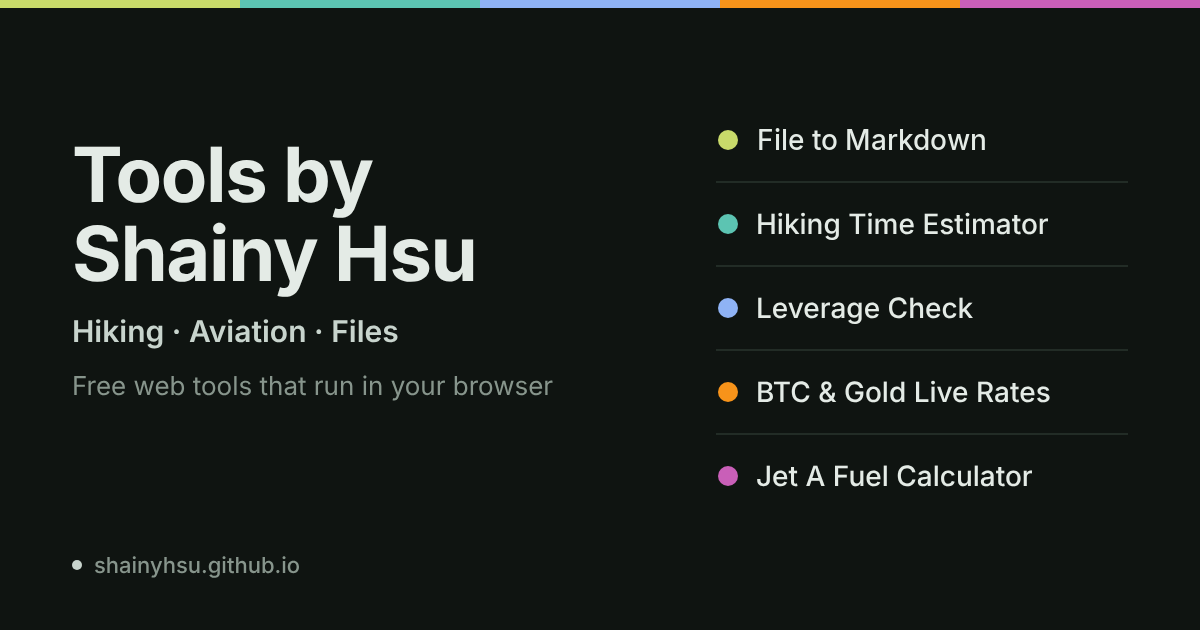
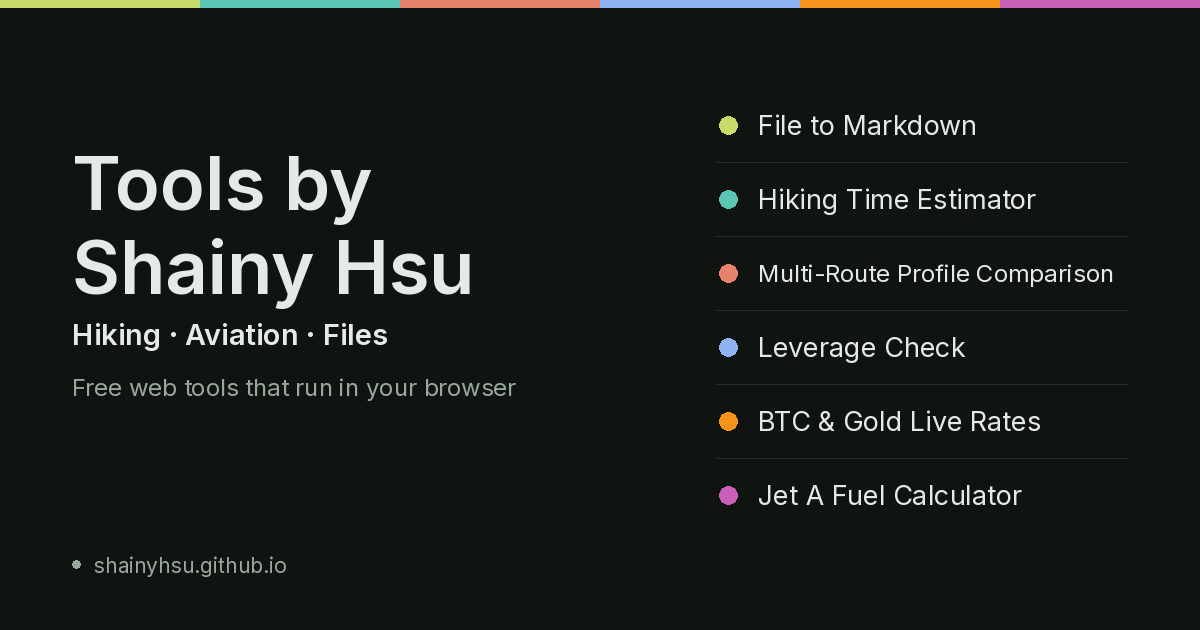
Home: add Multi-Route Profile Comparison to list, sitemap and OG image

diff --git a/index.html b/index.html
@@ -2,25 +2,26 @@
 <html lang="en"><head><meta charset="utf-8"><script>(function(){var t="dark";try{t=localStorage.getItem("theme")||"dark"}catch(e){}document.documentElement.setAttribute("data-theme",t==="light"?"light":"dark")})()</script>
 <meta name="viewport" content="width=device-width,initial-scale=1">
 <title>Tools by Shainy Hsu | Hiking, Aviation and Files</title>
-<meta name="description" content="Free web tools by Shainy Hsu: Hiking Time Estimator, Leverage Check for trip leaders, Jet A Fuel Calculator for the G550, BTC and gold live rates, and File to Markdown.">
+<meta name="description" content="Free web tools by Shainy Hsu: Hiking Time Estimator, Multi-Route Profile Comparison, Leverage Check for trip leaders, Jet A Fuel Calculator for the G550, BTC and gold live rates, and File to Markdown.">
 <link rel="canonical" href="https://shainyhsu.github.io/">
 <meta property="og:type" content="website">
 <meta property="og:title" content="Tools by Shainy Hsu | Hiking, Aviation and Files">
-<meta property="og:description" content="Free web tools by Shainy Hsu: Hiking Time Estimator, Leverage Check for trip leaders, Jet A Fuel Calculator for the G550, BTC and gold live rates, and File to Markdown.">
+<meta property="og:description" content="Free web tools by Shainy Hsu: Hiking Time Estimator, Multi-Route Profile Comparison, Leverage Check for trip leaders, Jet A Fuel Calculator for the G550, BTC and gold live rates, and File to Markdown.">
 <meta property="og:url" content="https://shainyhsu.github.io/">
 <meta property="og:locale" content="en_US">
 <meta property="og:image" content="https://shainyhsu.github.io/og.png">
 <meta property="og:image:type" content="image/png">
 <meta property="og:image:width" content="1200">
 <meta property="og:image:height" content="630">
-<meta property="og:image:alt" content="Tools by Shainy Hsu: File to Markdown, Hiking Time Estimator, Leverage Check, BTC and Gold Live Rates, Jet A Fuel Calculator">
+<meta property="og:image:alt" content="Tools by Shainy Hsu: File to Markdown, Hiking Time Estimator, Multi-Route Profile Comparison, Leverage Check, BTC and Gold Live Rates, Jet A Fuel Calculator">
 <meta name="twitter:card" content="summary_large_image">
 <meta name="twitter:image" content="https://shainyhsu.github.io/og.png">
-<meta name="twitter:image:alt" content="Tools by Shainy Hsu: File to Markdown, Hiking Time Estimator, Leverage Check, BTC and Gold Live Rates, Jet A Fuel Calculator">
+<meta name="twitter:image:alt" content="Tools by Shainy Hsu: File to Markdown, Hiking Time Estimator, Multi-Route Profile Comparison, Leverage Check, BTC and Gold Live Rates, Jet A Fuel Calculator">
 <style>:root{color-scheme:dark;--bg:#0f1411;--text:#e4ebe6;--muted:#9aa79f;--faint:#87958c;--line:#2a352e;--card:#172019}[data-theme="light"]{color-scheme:light;--bg:#faf9f5;--text:#141413;--muted:#6b6a65;--faint:#9a978e;--line:#e6e3da;--card:#ffffff}body{margin:0;background:var(--bg);color:var(--text);font:16px/1.6 -apple-system,BlinkMacSystemFont,"Segoe UI",Roboto,"Helvetica Neue",Arial,"PingFang TC","Noto Sans TC",sans-serif}main{position:relative;max-width:640px;margin:0 auto;padding:64px 24px}h1{font-size:28px;font-weight:600;margin:0 0 32px;padding-right:52px}ul{list-style:none;padding:0;margin:0}li a{display:block;padding:20px 0;border-top:1px solid var(--line);color:inherit;text-decoration:none}li a:hover strong{text-decoration:underline}strong{display:block;font-weight:600}span{color:var(--muted);font-size:15px}footer{margin-top:48px;color:var(--faint);font-size:13px}footer a{color:inherit}.theme-toggle{position:absolute;top:68px;right:24px;width:36px;height:36px;border-radius:10px;border:1px solid var(--line);background:var(--card);color:var(--text);display:flex;align-items:center;justify-content:center;cursor:pointer;padding:0}.theme-toggle:hover{border-color:var(--muted)}.theme-toggle svg{width:19px;height:19px}</style>
 </head><body><main><button class="theme-toggle" id="themeToggle" type="button"></button><h1>Tools by Shainy Hsu</h1><ul>
 <li><a href="/file2md/"><strong>File to Markdown</strong><span>Batch-convert PDF, Word, Excel and PPT to Markdown. Your files never leave your device.</span></a></li>
 <li><a href="/class-hiking-calculator/"><strong>Hiking Time Estimator</strong><span>Estimate hiking time from a GPX file, adjusted for grade, terrain, weather and group pace.</span></a></li>
+<li><a href="/multi-route-profile-comparison/"><strong>Multi-Route Profile Comparison</strong><span>Overlay the elevation profiles of several GPX hiking routes and export A4 JPGs.</span></a></li>
 <li><a href="/Leveraged-Outdoor-Strategy/"><strong>Leverage Check</strong><span>Pre-trip assessment for trip leaders: route needs vs. team skills.</span></a></li>
 <li><a href="/markets/"><strong>BTC &amp; Gold Live Rates</strong><span>Live BTC and gold prices in US dollars, with charts from 1 hour to 1 year.</span></a></li>
 <li><a href="/fuel/"><strong>Jet A Fuel Calculator</strong><span>G550 fuel uplift in lbs, kg, US gallons and liters, with fuel-temperature density correction.</span></a></li>
